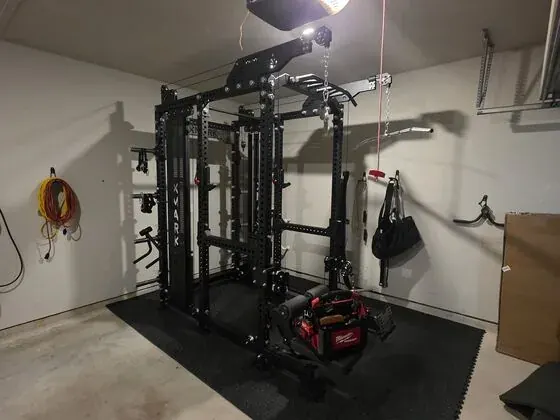
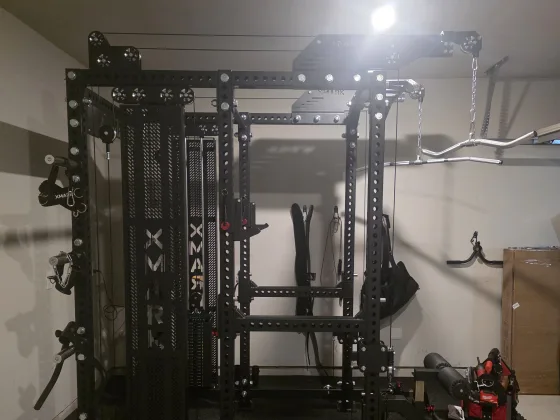
Service tiles recut from the Drive folder

diff --git a/v2.html b/v2.html
@@ -1298,7 +1298,7 @@ dialog.a11y::backdrop{background:rgba(8,16,24,.5)}
           <span class="svc-go" aria-hidden="true">Price this &rarr;</span></span>
       </li>
       <li class="svc-row">
-        <span class="svc-thumb"><img src="img/svc-gym.webp?v=e60a6894" alt="" loading="lazy" width="120" height="90"></span>
+        <span class="svc-thumb"><img src="img/svc-gym.webp?v=9963457e" alt="" loading="lazy" width="120" height="90"></span>
         <span class="svc-txt">
           <h3><button type="button" class="svc-hit" data-svc="gym">Gym &amp; Fitness Equipment Assembly</button></h3>
           <p>Home and commercial equipment: Smith machines, power racks, cable machines, functional trainers, treadmills, benches and complete home gyms. Adjusted and checked for proper operation after assembly.</p>
@@ -1307,7 +1307,7 @@ dialog.a11y::backdrop{background:rgba(8,16,24,.5)}
           <span class="svc-go" aria-hidden="true">Price this &rarr;</span></span>
       </li>
       <li class="svc-row">
-        <span class="svc-thumb"><img src="img/svc-electrical.webp?v=8bbd2fb7" alt="" loading="lazy" width="120" height="90"></span>
+        <span class="svc-thumb"><img src="img/svc-electrical.webp?v=489182d1" alt="" loading="lazy" width="120" height="90"></span>
         <span class="svc-txt">
           <h3><button type="button" class="svc-hit" data-svc="electrical">Electrical Repairs &amp; Installation</button></h3>
           <p>Outlets, GFCI receptacles, switches, dimmers, light fixtures, ceiling fans, bathroom exhaust fans, smart switches and chandeliers. We troubleshoot common faults and handle oversized and high-ceiling fixtures.</p>
@@ -1540,7 +1540,7 @@ dialog.a11y::backdrop{background:rgba(8,16,24,.5)}
 
 <!-- =========== CONTACT =========== -->
 <section class="band screen screen-photo" id="contact" aria-labelledby="c-h">
-  <div class="bg-layer" aria-hidden="true"><img src="img/svc-electrical.webp?v=8bbd2fb7" alt="" loading="lazy"></div>
+  <div class="bg-layer" aria-hidden="true"><img src="img/svc-electrical.webp?v=489182d1" alt="" loading="lazy"></div>
   <div class="wrap ct-grid">
     <div class="rise">
       <p class="eyebrow">Reach us</p>

diff --git a/index.html b/index.html
@@ -1235,7 +1235,7 @@ dialog.a11y::backdrop{background:rgba(8,16,24,.5)}
           <span class="svc-go" aria-hidden="true">Price this &rarr;</span></span>
       </li>
       <li class="svc-row">
-        <span class="svc-thumb"><img src="img/svc-gym.webp?v=e60a6894" alt="" loading="lazy" width="120" height="90"></span>
+        <span class="svc-thumb"><img src="img/svc-gym.webp?v=9963457e" alt="" loading="lazy" width="120" height="90"></span>
         <span class="svc-txt">
           <h3><button type="button" class="svc-hit" data-svc="gym">Gym &amp; Fitness Equipment Assembly</button></h3>
           <p>Home and commercial equipment: Smith machines, power racks, cable machines, functional trainers, treadmills, benches and complete home gyms. Adjusted and checked for proper operation after assembly.</p>
@@ -1244,7 +1244,7 @@ dialog.a11y::backdrop{background:rgba(8,16,24,.5)}
           <span class="svc-go" aria-hidden="true">Price this &rarr;</span></span>
       </li>
       <li class="svc-row">
-        <span class="svc-thumb"><img src="img/svc-electrical.webp?v=8bbd2fb7" alt="" loading="lazy" width="120" height="90"></span>
+        <span class="svc-thumb"><img src="img/svc-electrical.webp?v=489182d1" alt="" loading="lazy" width="120" height="90"></span>
         <span class="svc-txt">
           <h3><button type="button" class="svc-hit" data-svc="electrical">Electrical Repairs &amp; Installation</button></h3>
           <p>Outlets, GFCI receptacles, switches, dimmers, light fixtures, ceiling fans, bathroom exhaust fans, smart switches and chandeliers. We troubleshoot common faults and handle oversized and high-ceiling fixtures.</p>
